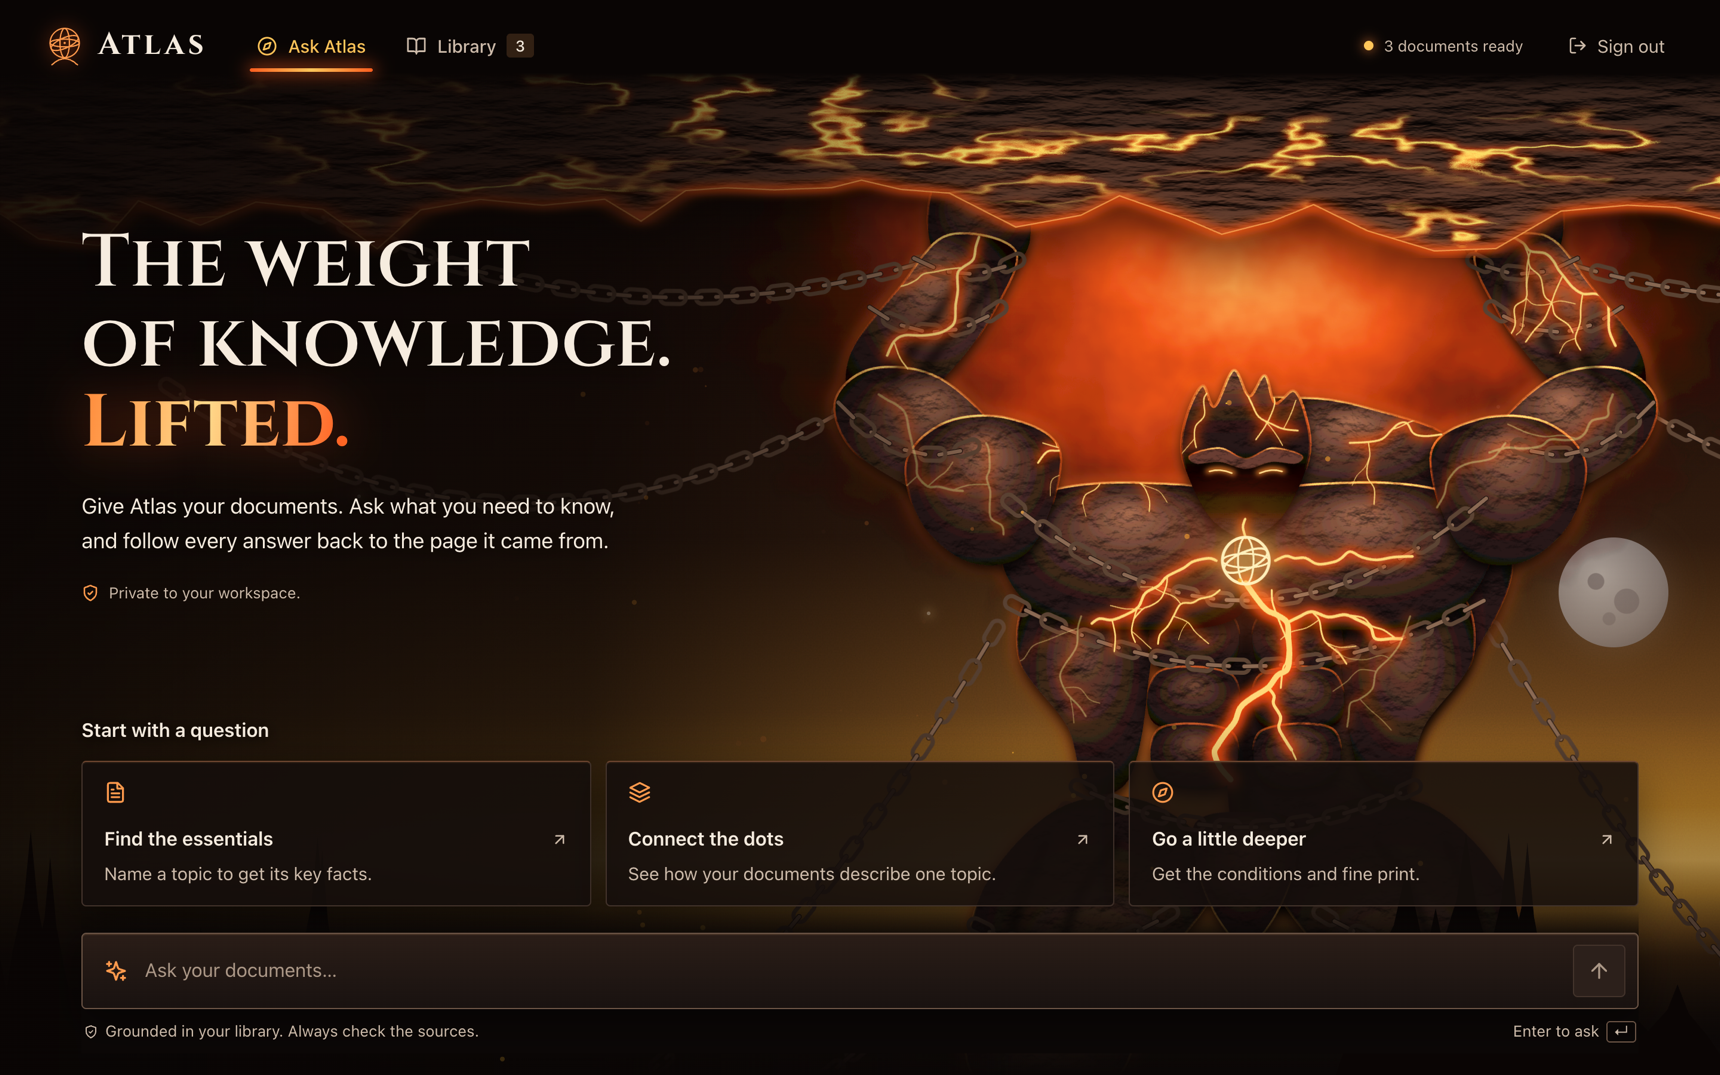
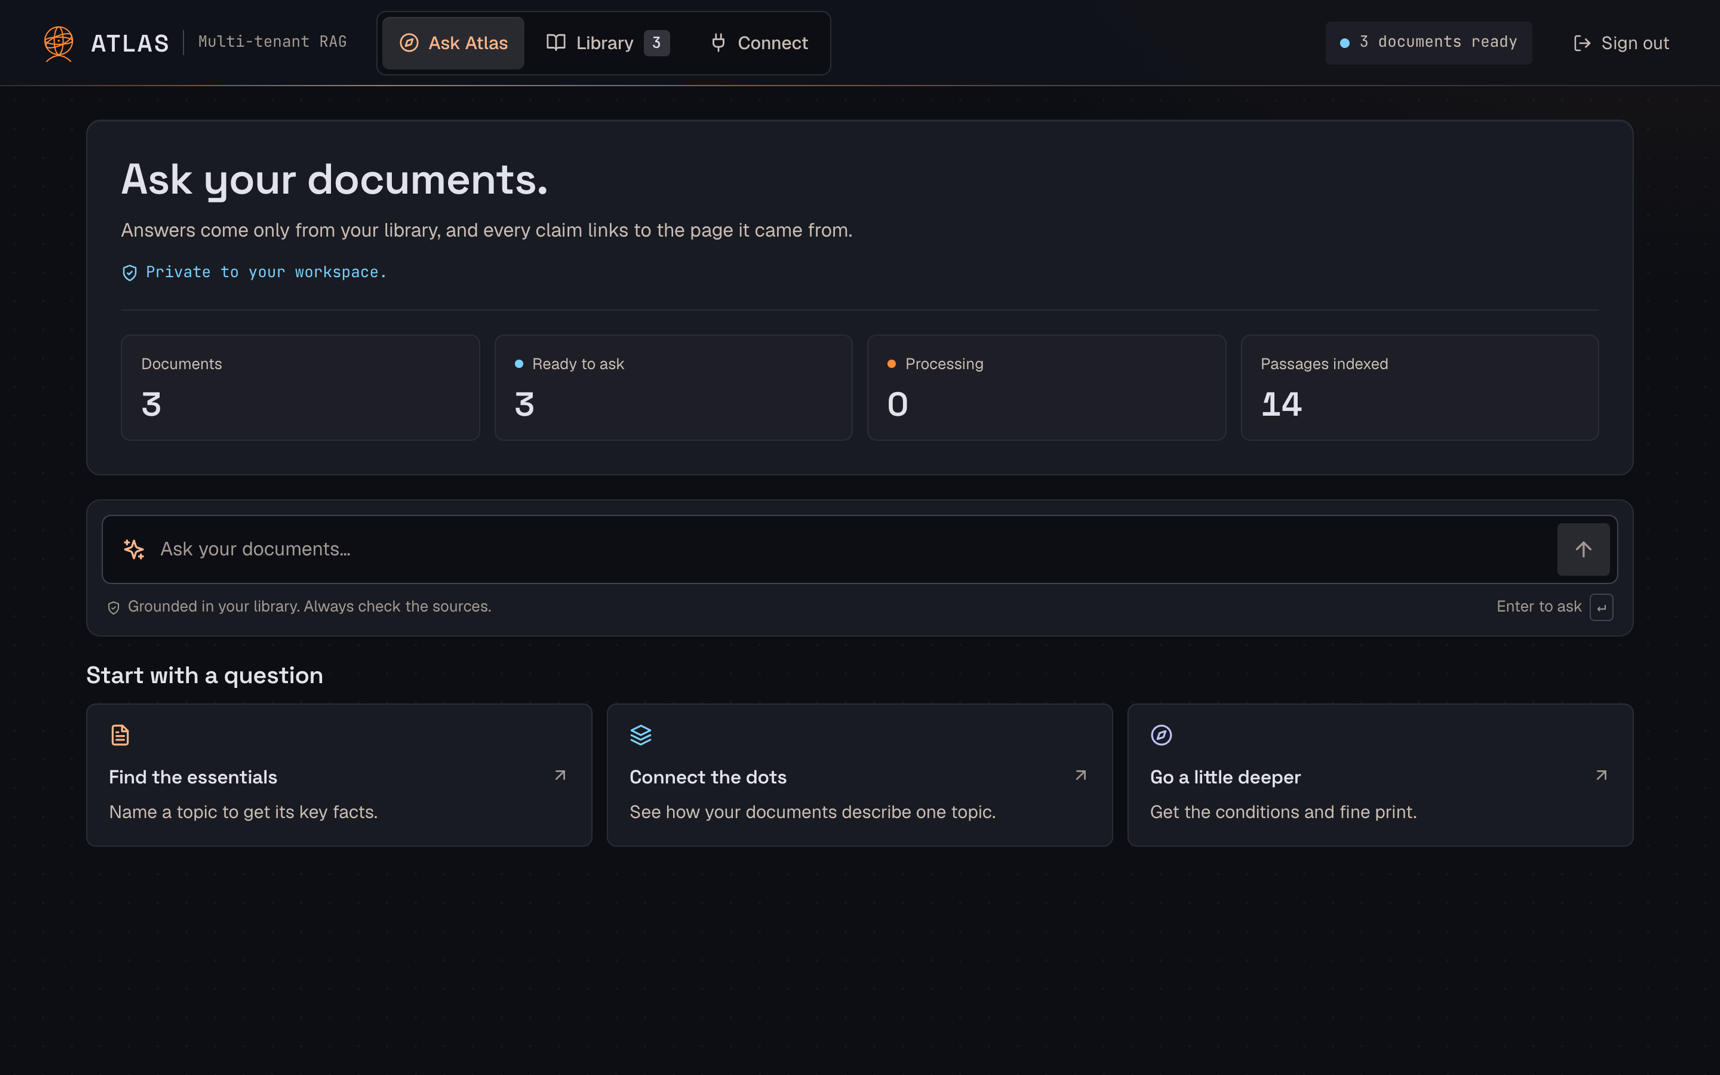
Show the professional interface in the README

diff --git a/README.md b/README.md
@@ -4,7 +4,7 @@
 
 atlas is a multi-tenant retrieval-augmented generation (RAG) service. Tenants upload PDFs and ask questions about them in a web interface, over a REST API, or as MCP tools. Background workers parse, chunk and embed documents into Postgres with pgvector. Answers are generated through [forge](https://github.com/harshit-ojha0324/forge), an LLM gateway that provides per-tenant quotas, response caching and failover between models.
 
-<img src="docs/images/ui-home.png" alt="Atlas web interface: a chained stone titan with molten veins holds up a cracked, burning sky above the question box and three suggestion cards" width="860">
+<img src="docs/images/ui-ask.png" alt="Atlas web interface: an answer from Gemini about vacation, parental leave and remote work, with numbered citations beside its sources, 3 of 4 cited" width="860">
 
 - Tenant isolation. Every query, rate limit, model quota and cached answer is scoped to the tenant.
 - Fair ingestion. Each tenant has its own queue, so one tenant's backlog doesn't delay another's documents.
@@ -34,7 +34,7 @@ atlas is a multi-tenant retrieval-augmented generation (RAG) service. Tenants up
 | Queueing, rate limits | Redis 7: Streams and a Lua token bucket |
 | Embeddings | `all-MiniLM-L6-v2` (sentence-transformers, CPU) |
 | Generation | forge (OpenAI-compatible gateway) |
-| Web interface | React 18, Vite and Motion, built into the image and served by the API; the titan scene is SVG, CSS and canvas |
+| Web interface | React 18, Vite and Motion, built into the image and served by the API |
 | Agent interface | MCP (`mcp` SDK, streamable HTTP or stdio) |
 
 ## Quick start
@@ -69,16 +69,19 @@ All ports are bound to localhost.
 The API serves a web interface at `/`, so it shares the API's origin and needs no CORS setup.
 
 - **Sign in** with a workspace's API key. The key is kept for the browser tab only and cleared when it closes.
-- **Ask** answers questions and keeps the conversation for follow-ups. Each `[n]` citation in an answer opens the passage it came from, and passages the answer didn't cite are dimmed. Any security notes and the model that answered are shown with the answer. Suggestion cards start a question for you to finish with a topic.
-- **Library** shows document counts, search and a status filter. New uploads show as processing and switch to ready (or failed, with the reason) on their own.
+- **Ask** answers questions and keeps the conversation for follow-ups. On wide screens the sources sit beside the answer. Each `[n]` citation opens and highlights the passage it came from, and passages the answer didn't cite are collapsed and dimmed. Any security notes and the model that answered are shown with the answer. Suggestion cards start a question for you to finish with a topic.
+- **Library** shows document and passage counts, search and a status filter. New uploads show as processing and switch to ready (or failed, with the reason) on their own.
+- **Connect** shows live readiness for Postgres, Redis and forge, and how to reach the workspace over REST and MCP.
 
-The header is the sky that Atlas holds up, and the scene behind each page follows the app. The camera moves between views, his veins light up as the library grows, each document that isn't failed adds a star, and he burns hotter while reading. The animation stops for visitors who ask for reduced motion.
+The sign-in screen also hides an easter egg.
 
-<img src="docs/images/ui-ask.png" alt="An answer from Gemini about vacation, parental leave and remote work, with numbered citations and a sources list showing 3 of 4 cited" width="720">
+<img src="docs/images/ui-home.png" alt="Ask page: document and passage counts, the question box and three suggestion cards" width="720">
 
-<img src="docs/images/ui-library.png" alt="Library: three documents ready and a fourth processing" width="720">
+<img src="docs/images/ui-library.png" alt="Library: counts, an upload area, a note on what happens to a PDF, and a list with three documents ready and a fourth processing" width="720">
 
-<img src="docs/images/ui-signin.png" alt="Sign-in screen: the titan in full under the burning sky, beside the API key form" width="720">
+<img src="docs/images/ui-connect.png" alt="Connect page: Postgres, Redis and forge all reachable, with the REST endpoints and MCP tools listed" width="720">
+
+<img src="docs/images/ui-signin.png" alt="Sign-in screen: a large armillary sphere and three short points beside the API key form" width="720">
 
 To work on the interface, run `npm install` and `npm run dev` in `frontend/`; the development server forwards API calls to `localhost:8000`.
 
@@ -237,7 +240,7 @@ The load test on a GitHub-hosted runner ([CI run 40813987003](https://github.com
 - Fair scheduling is per document; a very large PDF occupies a worker until it finishes.
 - PII and injection detection are pattern-based. Ten-digit numbers such as order IDs are redacted as phone numbers.
 - `/ask` does not stream responses.
-- The web interface's smoke test (`frontend/tests/ui-smoke.cjs`, 106 checks against API fixtures) runs locally with Playwright and is not part of CI.
+- The web interface's smoke test (`frontend/tests/ui-smoke.cjs`, 132 checks against API fixtures) runs locally with Playwright and is not part of CI.
 - There is no command to delete a tenant.
 - Every tenant gets the same forge quota and weight, set on atlas's entry in forge's tenants file.
 - A missing API key returns `422` rather than `401`.
